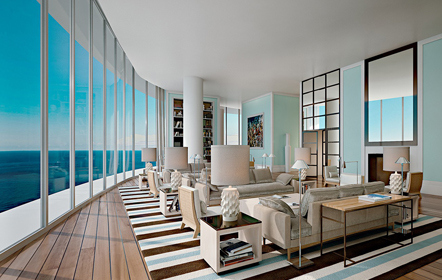
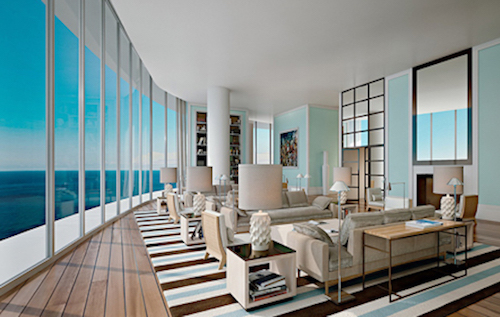
modified images and indes.css to add opacity to backgournd.

diff --git a/index.css b/index.css
@@ -37,17 +37,55 @@ body {
   width: auto;
   height: auto;
 }
+
+.my-container {
+    position: relative;
+    background: #5C97FF;
+    overflow: hidden;
+}
+.my-container:before {
+
+    background-image: url('http://placekitten.com/1500/1000');
+
+}
+
+
+
 #img-1 {
+  position: relative;
+  background: #000;
+  overflow: hidden;
+}
+#img-1:before{
+  content: ' ';
+  display: block;
+  position: absolute;
+  left: 0;
+  top: 0;
+  width: 100%;
+  height: 100%;
+  z-index: 1;
+  opacity: 0.6;
   background: url('images/3.jpg') no-repeat center center;
+  background-repeat: no-repeat;
+  background-position: 50% 0;
+  -ms-background-size: cover;
+  -o-background-size: cover;
+  -moz-background-size: cover;
+  -webkit-background-size: cover;
+  background-size: cover;
 }
 #img-2 {
   background: url('images/7.jpg') no-repeat center center;
+  opacity:0.2;
 }
 #img-3 {
   background: url('images/6.jpg') no-repeat center center;
+  opacity:0.2;
 }
 #img-4 {
   background: url('images/5.jpg') no-repeat center center;
+  opacity:0.2;
 }
 .form {
   height: 20%;
@@ -62,6 +100,39 @@ body {
     z-index: 1;
     text-align: center;
 }
+@import url('https://fonts.googleapis.com/css?family=Montserrat:400,700');
+.form h4 {
+  font-family: "Montserrat",sans-serif;
+  font-weight: bold;
+  color: white;
+  text-shadow: 1px 2px 3px black;
+  padding: 0 15px;
+}
+/* Extra small devices (phones, up to 480px) */
+@media screen and (max-width: 767px) {
+    .form h4 {
+        font-size: 30px;
+    }
+}
+/* Small devices (tablets, 768px and up) */
+@media (min-width: 768px) and (max-width: 991px) {
+    .form h4 {
+        font-size: 35px;
+    }
+}
+/* tablets/desktops and up ----------- */
+@media (min-width: 992px) and (max-width: 1199px) {
+    .form h4 {
+        font-size: 40px;
+    }
+}
+/* large desktops and up ----------- */
+@media screen and (min-width: 1200px) {
+    .form h4 {
+        font-size: 45px;
+    }
+}
+
 .options {
   display: inline-block;
 }
@@ -95,4 +166,7 @@ body {
 }
 .four-images img {
   border-radius: 2%;
+}
+.col-xs-12 {
+
 }
